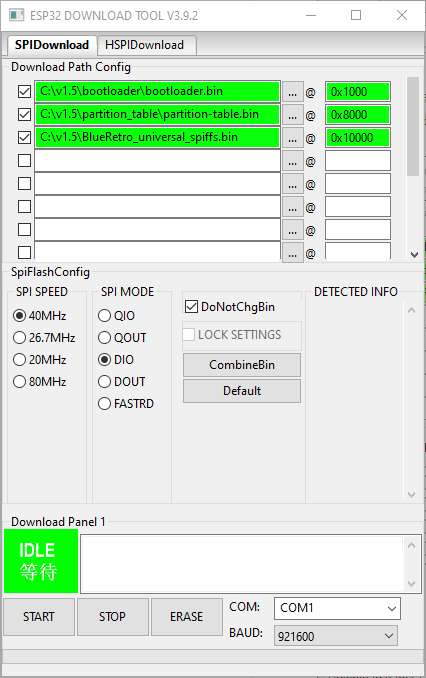
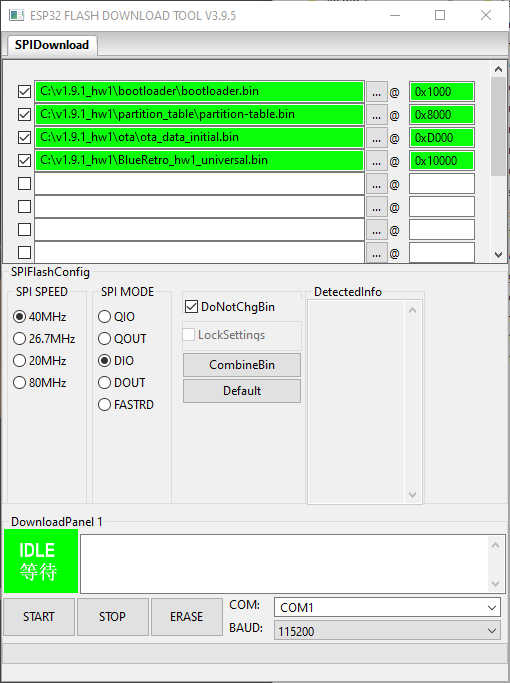
Add flashing of initial ota partition

diff --git a/Flashing-firmware-Windows-10.md b/Flashing-firmware-Windows-10.md
@@ -7,9 +7,9 @@ https://docs.espressif.com/projects/esp-idf/en/latest/esp32/get-started/establis
 3. Select develop Mode\
    Select ESP32 DownloadTool\
    ![](img/flash_mode.png)
-4. Select and check the 3 binary file in the first 3 field and match the option as in screenshot.\
-   An universal version with system auto detection is provided in addition to system hard-coded versions.\
-   In order each bin offset are: 0x1000, 0x8000, & 0x10000.\
+4. Select and check the first 3 binary files in the first 3 fields and match the option as in the screenshot.\
+   For the 4th field, check it too and use the firmware that match your adapter type.\
+   In order each bin offset value are: 0x1000, 0x8000, 0xD000 & 0x10000.\
    ![](img/flash_config.png)
 5. Select proper COM port for your machine.
 6. Press START
